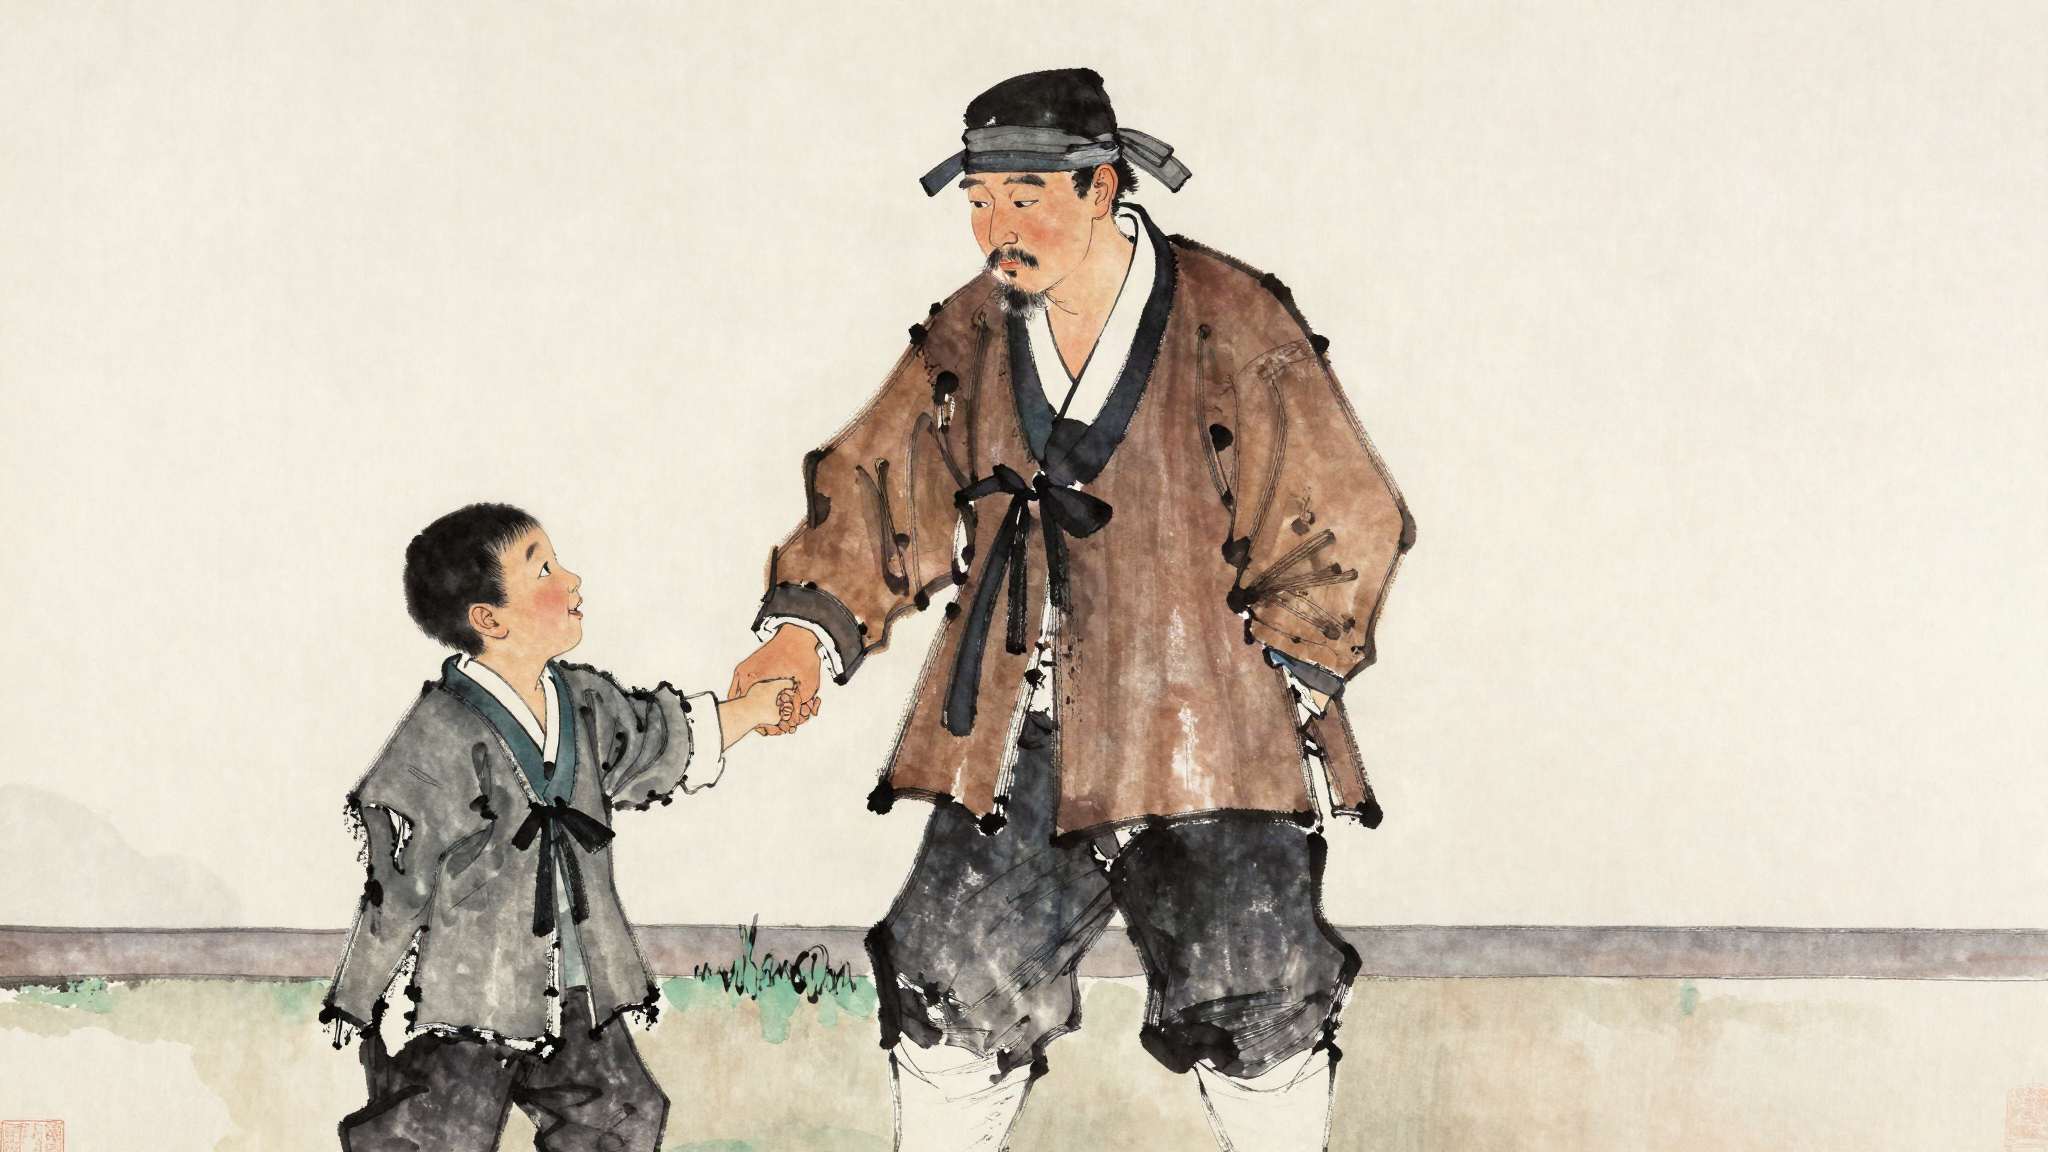
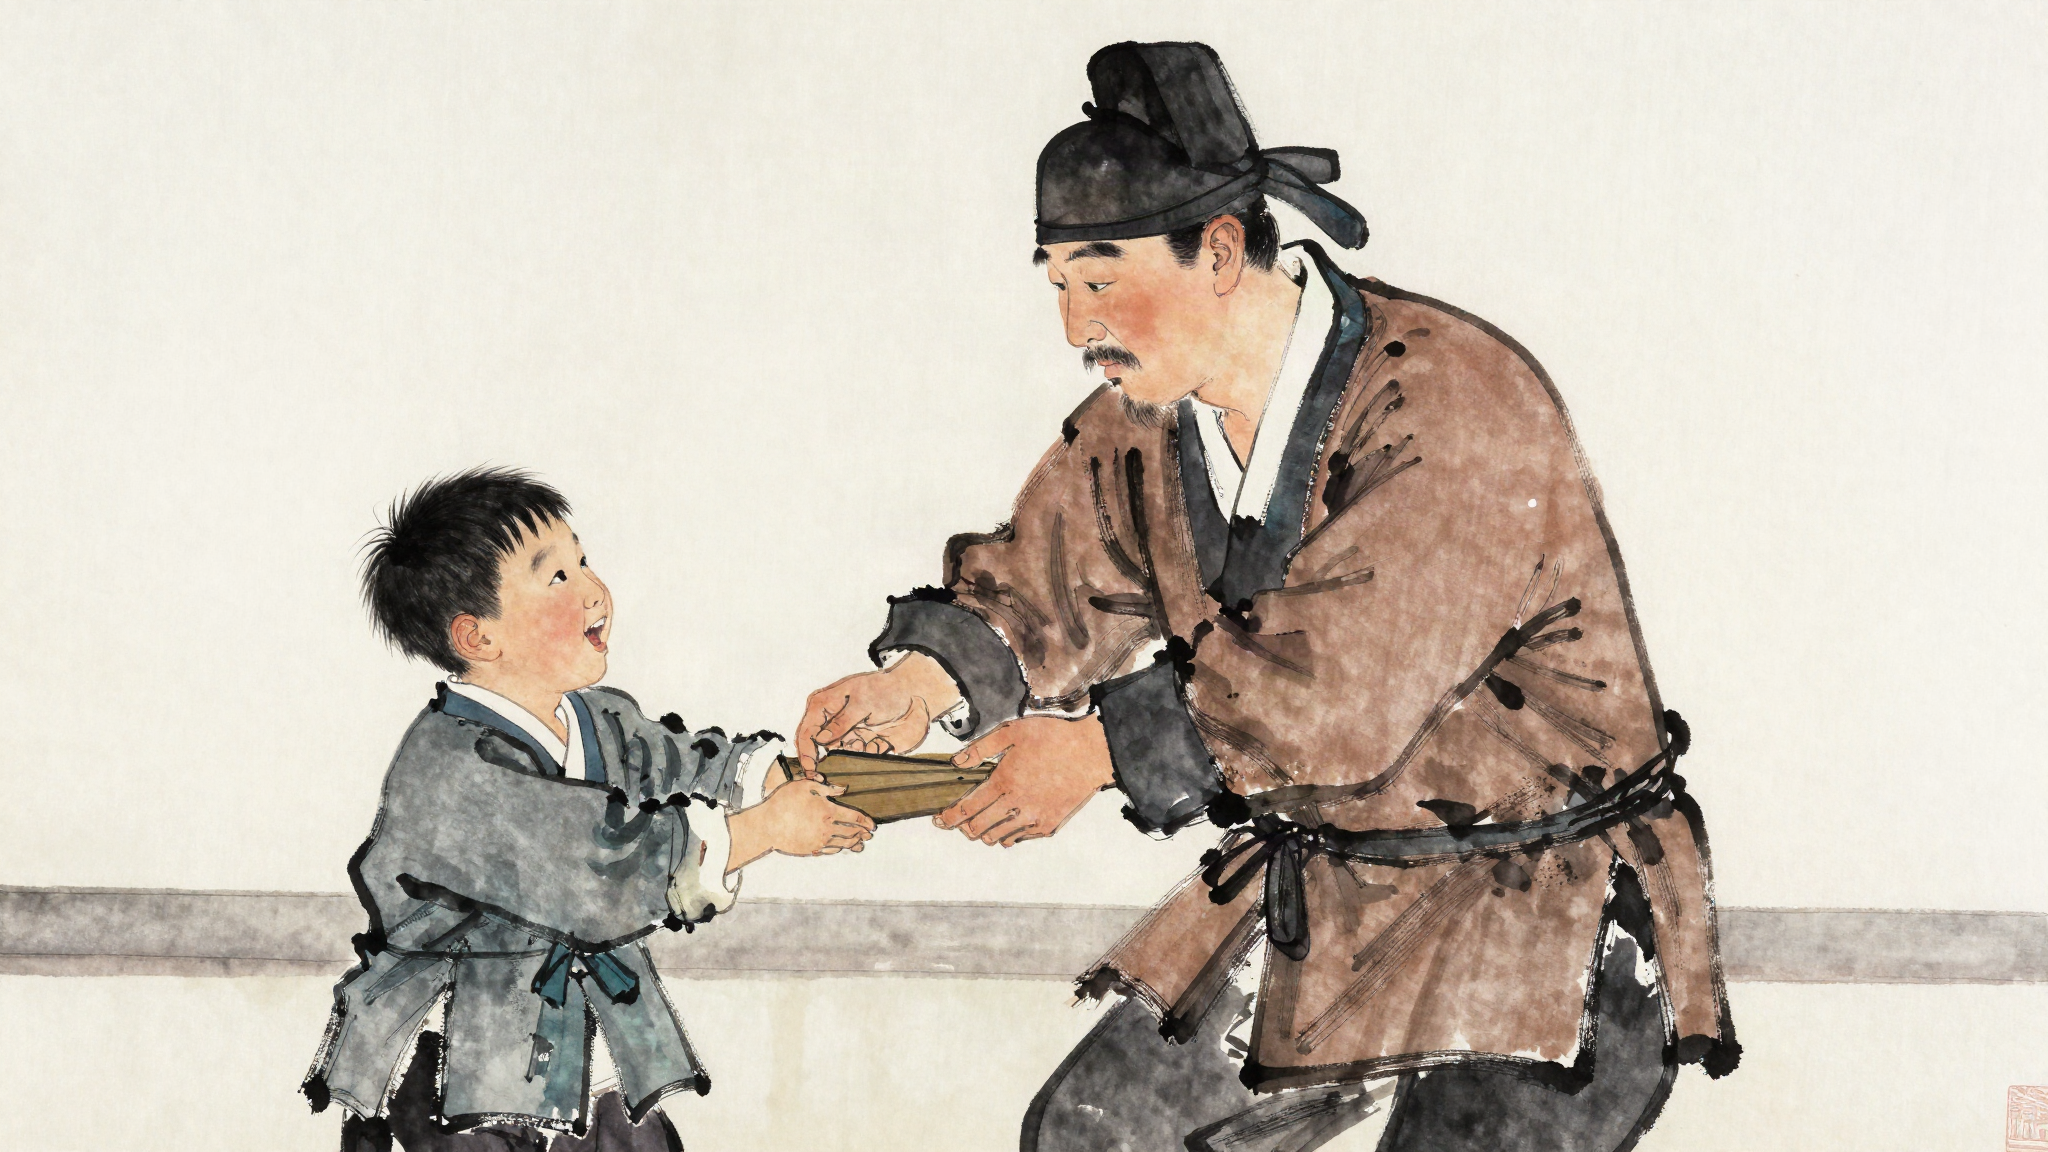
허허서방 3편: 막동이 얼굴 통일(헝클어진 까만 머리), S10 민머리·S17 팔 하나 재생성

diff --git a/docs/전래동화/03_까치호랑이그리던떠돌이환쟁이/웹프롬프트.md b/docs/전래동화/03_까치호랑이그리던떠돌이환쟁이/웹프롬프트.md
@@ -4,7 +4,7 @@
 
 ## S02
 
-참고 그림: `docs/전래동화/03_까치호랑이그리던떠돌이환쟁이/images/S18.png` (그림체+복만) · 윤 화원 나오면 `images/S08.png`도
+참고 그림: `docs/전래동화/그림체샘플/A_민화수묵/02.png`
 
 ```
 Korean traditional minhwa folk painting in ink-wash damchae style, matching the style of the reference image: confident black ink brush outlines, soft muted watercolor washes of indigo, ochre, persimmon red and pine green on aged cream hanji paper. Bright and clear, faces large and readable. No text, no letters anywhere. Scene: Close-up of a large Korean minhwa magpie-and-tiger painting on paper held up against bright sunset light, so a hidden small magpie painted on the back glows faintly through the paper beside the tiger. Nothing written anywhere.
@@ -12,7 +12,7 @@ Korean traditional minhwa folk painting in ink-wash damchae style, matching the 
 
 ## S06
 
-참고 그림: `docs/전래동화/03_까치호랑이그리던떠돌이환쟁이/images/S18.png` (그림체+복만) · 윤 화원 나오면 `images/S08.png`도
+참고 그림: `docs/전래동화/그림체샘플/A_민화수묵/02.png`
 
 ```
 Korean traditional minhwa folk painting in ink-wash damchae style, matching the style of the reference image: confident black ink brush outlines, soft muted watercolor washes of indigo, ochre, persimmon red and pine green on aged cream hanji paper. Bright and clear, faces large and readable. No text, no letters anywhere. Scene: Only one person: a lean street painter in a patched brown jacket and headband sitting alone on a straw mat at a market corner, painting a cute smiling tiger and a magpie on paper with a brush. Small tiger paintings hang on a rope behind him. Nothing written anywhere.
@@ -20,7 +20,7 @@ Korean traditional minhwa folk painting in ink-wash damchae style, matching the 
 
 ## S25
 
-참고 그림: `docs/전래동화/03_까치호랑이그리던떠돌이환쟁이/images/S18.png` (그림체+복만) · 윤 화원 나오면 `images/S08.png`도
+참고 그림: `docs/전래동화/그림체샘플/A_민화수묵/02.png`
 
 ```
 Korean traditional minhwa folk painting in ink-wash damchae style, matching the style of the reference image: confident black ink brush outlines, soft muted watercolor washes of indigo, ochre, persimmon red and pine green on aged cream hanji paper. Bright and clear, faces large and readable. No text, no letters anywhere. Scene: Scene in a noble mansion hall: 1. CENTER: a tall folding screen with a big magpie-and-tiger painting. 2. LEFT: a haughty court painter in a blue silk robe and gat standing proudly with his fan, chin up. 3. RIGHT: noble guests admiring the screen. Nothing written anywhere.
@@ -28,15 +28,15 @@ Korean traditional minhwa folk painting in ink-wash damchae style, matching the 
 
 ## S28
 
-참고 그림: `docs/전래동화/03_까치호랑이그리던떠돌이환쟁이/images/S18.png` (그림체+복만) · 윤 화원 나오면 `images/S08.png`도
+참고 그림: `docs/전래동화/그림체샘플/A_민화수묵/02.png`
 
 ```
-Korean traditional minhwa folk painting in ink-wash damchae style, matching the style of the reference image: confident black ink brush outlines, soft muted watercolor washes of indigo, ochre, persimmon red and pine green on aged cream hanji paper. Bright and clear, faces large and readable. No text, no letters anywhere. Scene: Scene in a noble mansion courtyard: 1. TOP, on the raised wooden hall: a haughty court painter in a blue silk robe and gat pointing down angrily with his fan. 2. BOTTOM, kneeling on the ground held by two servants: a lean street painter in a patched brown jacket and headband, looking up. 3. BESIDE HIM: a skinny orphan boy in a ragged gray jacket crying.
+Korean traditional minhwa folk painting in ink-wash damchae style, matching the style of the reference image: confident black ink brush outlines, soft muted watercolor washes of indigo, ochre, persimmon red and pine green on aged cream hanji paper. Bright and clear, faces large and readable. No text, no letters anywhere. Scene: Scene in a noble mansion courtyard: 1. TOP, on the raised wooden hall: a haughty court painter in a blue silk robe and gat pointing down angrily with his fan. 2. BOTTOM LEFT, kneeling on the ground, held by one servant: a lean street painter in a patched brown jacket and headband, an adult man with a mustache, looking up. 3. BOTTOM RIGHT: a skinny eight-year-old boy with messy short black hair in a ragged gray patched jacket crying, the same boy as in the reference image.
 ```
 
 ## S34
 
-참고 그림: `docs/전래동화/03_까치호랑이그리던떠돌이환쟁이/images/S18.png` (그림체+복만) · 윤 화원 나오면 `images/S08.png`도
+참고 그림: `docs/전래동화/그림체샘플/A_민화수묵/02.png`
 
 ```
 Korean traditional minhwa folk painting in ink-wash damchae style, matching the style of the reference image: confident black ink brush outlines, soft muted watercolor washes of indigo, ochre, persimmon red and pine green on aged cream hanji paper. Bright and clear, faces large and readable. No text, no letters anywhere. Scene: Close-up of a magpie-and-tiger painting glowing with sunset light shining through the paper from behind: faintly appearing inside the tiger's stripes are a small magpie and a tiny smiling boy's face, painted on the back. Nothing written anywhere.
@@ -44,7 +44,7 @@ Korean traditional minhwa folk painting in ink-wash damchae style, matching the 
 
 ## S39
 
-참고 그림: `docs/전래동화/03_까치호랑이그리던떠돌이환쟁이/images/S18.png` (그림체+복만) · 윤 화원 나오면 `images/S08.png`도
+참고 그림: `docs/전래동화/그림체샘플/A_민화수묵/02.png`
 
 ```
 Korean traditional minhwa folk painting in ink-wash damchae style, matching the style of the reference image: confident black ink brush outlines, soft muted watercolor washes of indigo, ochre, persimmon red and pine green on aged cream hanji paper. Bright and clear, faces large and readable. No text, no letters anywhere. Scene: Scene in a noble courtyard, two painters side by side on mats: 1. LEFT: a haughty court painter in a blue silk robe and gat sweating, his brush trembling over a smudged sheet. 2. RIGHT: a lean street painter in a patched brown jacket and headband painting calmly, a lively smiling tiger appearing on his paper. Guests watching. Nothing written anywhere.
@@ -52,8 +52,8 @@ Korean traditional minhwa folk painting in ink-wash damchae style, matching the 
 
 ## S40
 
-참고 그림: `docs/전래동화/03_까치호랑이그리던떠돌이환쟁이/images/S18.png` (그림체+복만) · 윤 화원 나오면 `images/S08.png`도
+참고 그림: `docs/전래동화/그림체샘플/A_민화수묵/02.png`
 
 ```
-Korean traditional minhwa folk painting in ink-wash damchae style, matching the style of the reference image: confident black ink brush outlines, soft muted watercolor washes of indigo, ochre, persimmon red and pine green on aged cream hanji paper. Bright and clear, faces large and readable. No text, no letters anywhere. Scene: Scene in a noble courtyard: 1. STANDING: a dignified white-bearded old nobleman in an ivory robe and gat, stern and dignified. 2. KNEELING before him with forehead to the ground: a haughty court painter in a blue silk robe and gat, his silk robe spread on the dirt. 3. BACKGROUND: a lean street painter in a patched brown jacket and headband and a skinny orphan boy in a ragged gray jacket standing, surprised.
+Korean traditional minhwa folk painting in ink-wash damchae style, matching the style of the reference image: confident black ink brush outlines, soft muted watercolor washes of indigo, ochre, persimmon red and pine green on aged cream hanji paper. Bright and clear, faces large and readable. No text, no letters anywhere. Scene: Scene in a noble courtyard: 1. STANDING: a dignified white-bearded old nobleman in an ivory robe and gat, stern and dignified. 2. KNEELING before him with forehead to the ground: a haughty court painter in a blue silk robe and gat, his silk robe spread on the dirt. 3. BACKGROUND RIGHT: a lean street painter in a patched brown jacket and headband, an adult man with a mustache, standing with a skinny eight-year-old boy with messy short black hair in a ragged gray patched jacket, the same boy as in the reference image, both surprised.
 ```
